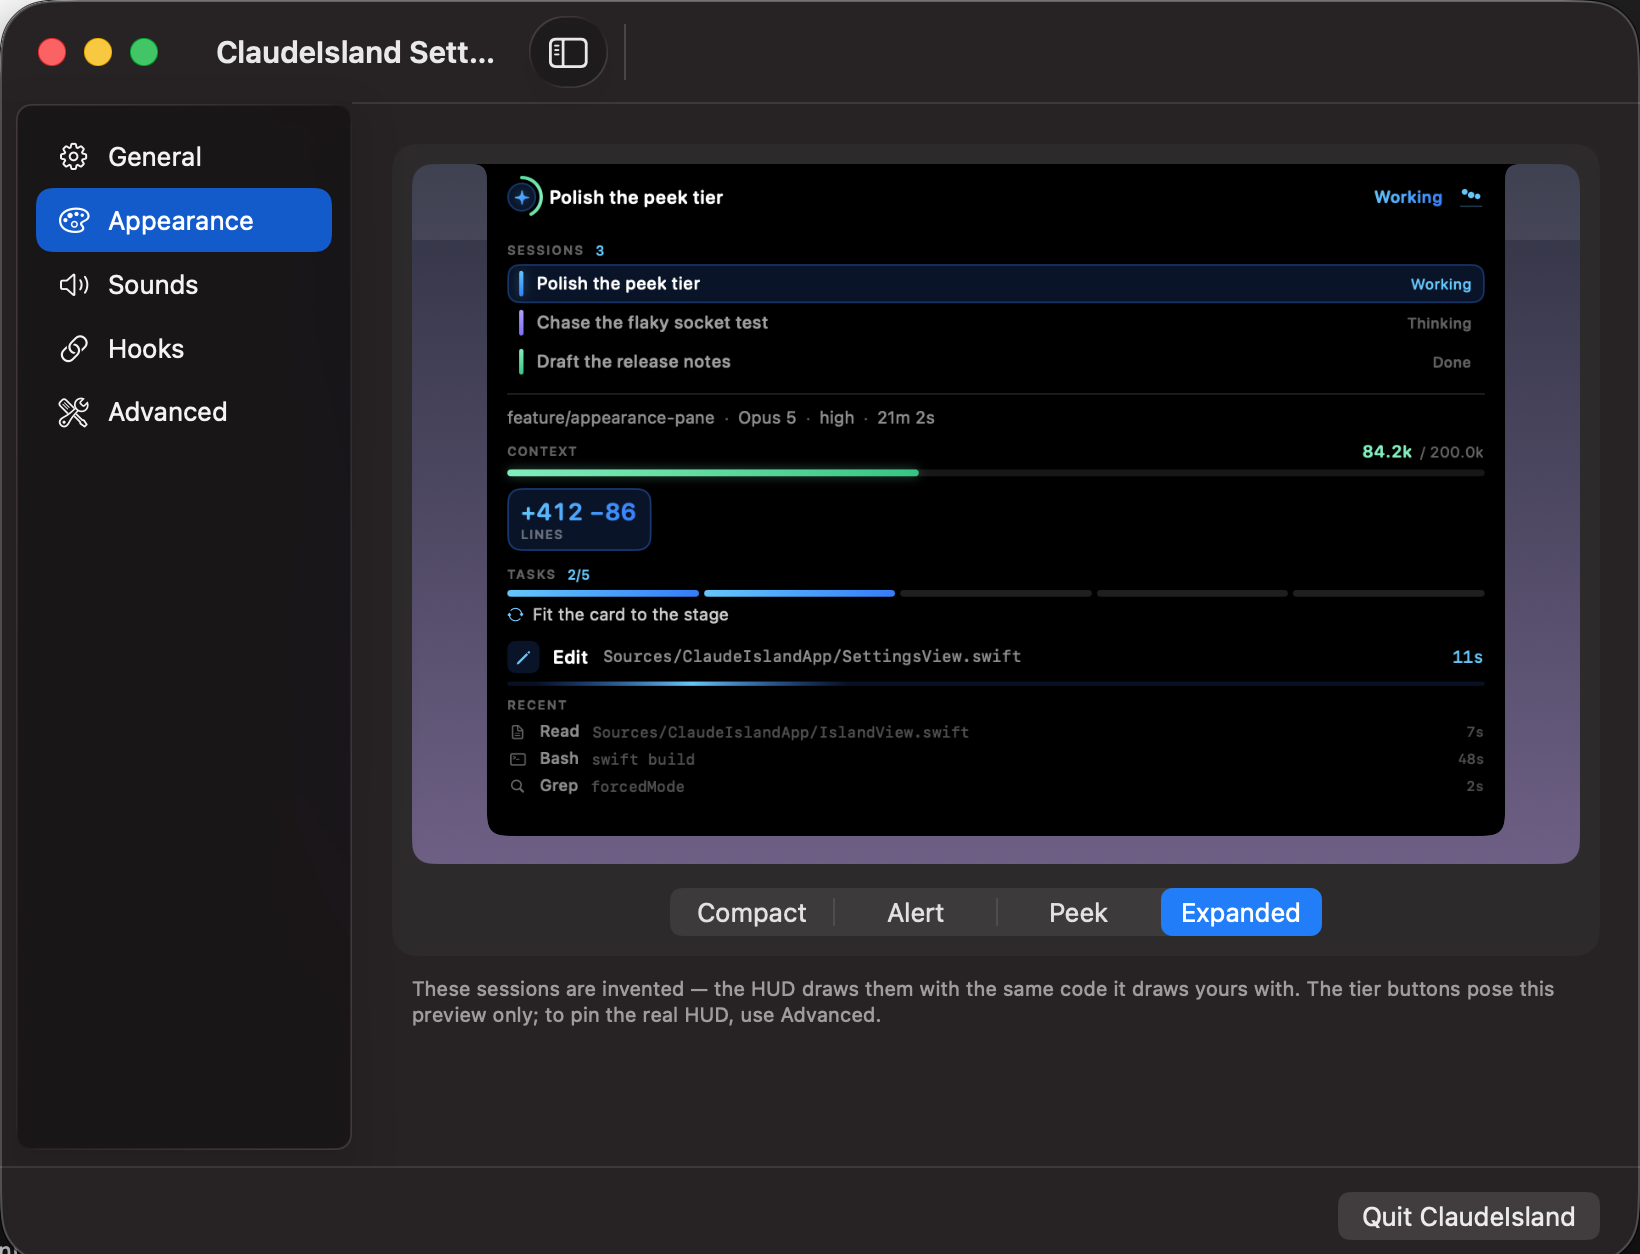
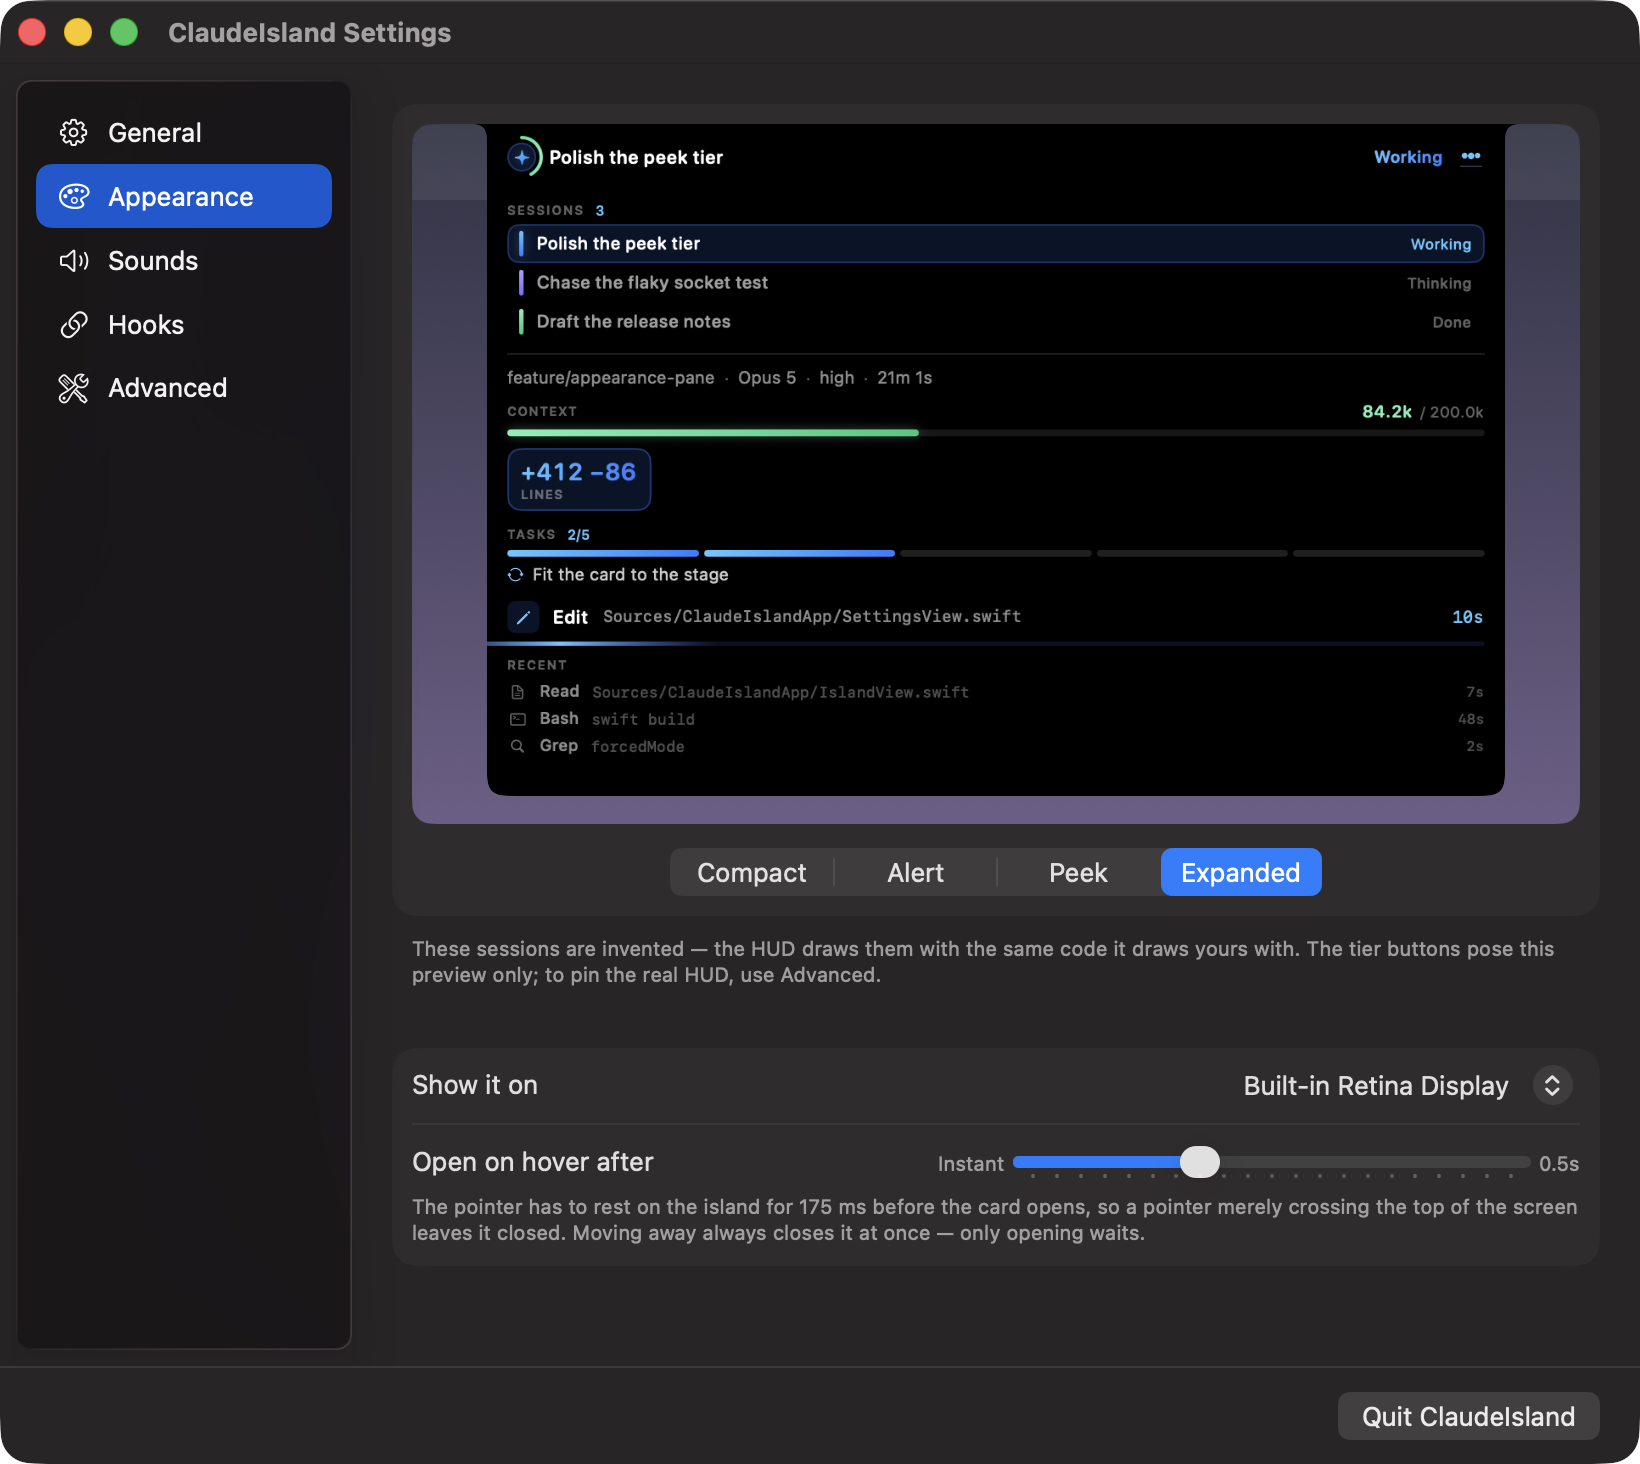
Give the settings window its title back, and Appearance its settings
Three complaints about the same window, two of which turn out to be one
bug. `NavigationSplitView` hangs a toolbar off the window whether or not
anything asks for one, and it costs twice: a sidebar toggle draws beside
the title offering to collapse a sidebar this window deliberately pins,
and the tracking separator that comes with it lays the title out inside
the sidebar's column — which is what cut "ClaudeIsland Settings" down to
"ClaudeIsland Sett…" in a window with three hundred points of empty
title bar to its right.

The window refuses the toolbar now, by overriding the property rather
than clearing it afterwards: SwiftUI sets it during layout, so anything
that nilled it after the fact would be racing whichever runloop turn
that lands on. SwiftUI cannot refuse it from its side —
`.toolbar(removing: .sidebarToggle)` and `.toolbar(.hidden, for:
.windowToolbar)` are both no-ops inside an `NSHostingView`; captures of
the window with and without them were identical to the byte. `--selftest`
asserts the override directly, by handing the window a toolbar and
reading it back nil, rather than by watching for SwiftUI's own — a check
that watched would pass vacuously the day SwiftUI stopped installing one.

Appearance was a pane that wrote no settings at all, so "Show it on" and
"Open on hover after" move onto it from General. Both are settings the
preview above them is already a picture of: it resolves the shape against
[…]

diff --git a/Sources/ClaudeIslandApp/SettingsView.swift b/Sources/ClaudeIslandApp/SettingsView.swift
@@ -39,9 +39,10 @@ struct SettingsView: View {
     /// than going blank.
     @State private var pane: Pane? = .general
 
-    /// Pinned open. This window has no toolbar, so the sidebar toggle that
-    /// normally brings a collapsed column back has nowhere to draw itself; a
-    /// sidebar the user can lose is one they cannot ask for again.
+    /// Pinned open, and the toggle that would unpin it is removed below — a
+    /// sidebar the user can lose is one they cannot ask for again. Five fixed
+    /// panes are the whole of this window's navigation; collapsing them leaves a
+    /// detail column with no way to say which pane it is showing.
     @State private var columns = NavigationSplitViewVisibility.all
 
     /// The displays attached right now, re-read whenever the window learns they
@@ -64,6 +65,14 @@ struct SettingsView: View {
                 detail
             }
             .navigationSplitViewStyle(.balanced)
+            // The toolbar this split view hangs off the window — a sidebar
+            // toggle for a sidebar that is pinned, and a tracking separator that
+            // truncated the window's title to fit the sidebar's column — is
+            // refused by the window itself. `.toolbar(removing:)` and
+            // `.toolbar(.hidden, for: .windowToolbar)` are both no-ops from
+            // inside an `NSHostingView`: photographed against a window with and
+            // without them, the two captures were identical to the byte. See
+            // `SettingsWindow`.
             .frame(maxHeight: .infinity)
             Divider()
             footer
@@ -148,8 +157,6 @@ struct SettingsView: View {
             Section {
                 LabeledContent("Status", value: statusLine)
                 Toggle("Show the HUD", isOn: $store.hudEnabled)
-                displayRow
-                hoverDelayRow
                 if LoginItem.isAvailable {
                     Toggle("Launch at login", isOn: launchAtLoginBinding)
                 }
@@ -166,14 +173,12 @@ struct SettingsView: View {
 
     /// Which display the island draws on.
     ///
-    /// On General, next to "Show the HUD", rather than on Appearance. Both were
-    /// defensible and this one is a judgement call, made on two grounds: this
-    /// setting answers *where the HUD is*, which is the same question as whether
-    /// it is showing at all — someone whose island has vanished onto the laptop
-    /// panel behind a closed lid goes looking in the pane that turns it on, not
-    /// in the one about how it looks. And Appearance is currently a pane that
-    /// writes no settings whatsoever: it is the preview and nothing else, which
-    /// is a property worth keeping.
+    /// On Appearance, directly under the preview, because the preview is this
+    /// row's own answer: it resolves the shape against whichever display is
+    /// chosen here, so a notched panel previews a notch and anything else
+    /// previews the pill. Picking a display on one pane to see what it did on
+    /// another was the arrangement this replaced, and it made the preview look
+    /// like decoration rather than the readout it is.
     ///
     /// The caption only appears when the chosen display is missing. A row that
     /// explained itself at all times would be four lines of prose above "Launch
@@ -211,11 +216,13 @@ struct SettingsView: View {
 
     /// How long the pointer must rest on the island before the card opens.
     ///
-    /// On General with the other two, because it answers the same question they
-    /// do — the island is showing, it is over there, and it takes this long to
-    /// notice you. It is also the row someone comes looking for after the HUD
-    /// popped open while they were reaching for the menu bar, which is not a
-    /// complaint about how it looks.
+    /// On Appearance under the display picker, because the tier it gates is the
+    /// one the preview above puts on screen: Peek is what this delay stands
+    /// between the pointer and, and the segment marked Peek is a click away
+    /// while the slider is being dragged. It is also the row someone comes
+    /// looking for after the card popped open while they were reaching for the
+    /// menu bar — a complaint about the island appearing when it should not,
+    /// which is the pane that shows the island appearing.
     ///
     /// A slider rather than a Short/Medium/Long picker: the range is narrow,
     /// every value in it is usable, and what is being chosen is a feel — judged
@@ -340,13 +347,18 @@ struct SettingsView: View {
     }
 
     /// Second in the sidebar rather than last: it is the one pane that answers a
-    /// question — "what is this thing going to look like on my screen" — instead
-    /// of asking one, and behind the hook plumbing it would only be found by
+    /// question — "what is this thing going to look like on my screen" — as well
+    /// as asking one, and behind the hook plumbing it would only be found by
     /// people who were already looking for it.
     ///
     /// The preview is fed made-up sessions and driven by a view model of its own;
     /// see `IslandPreviewSource` for why that second model is not an optimisation
-    /// but the whole safety property. Nothing on this pane writes a setting.
+    /// but the whole safety property.
+    ///
+    /// The two rows under it are the settings the preview is a picture of — which
+    /// display the island takes its shape from, and how long the pointer waits
+    /// for Peek. Both used to live on General, where changing one meant switching
+    /// panes to see what it had done.
     private var appearancePane: some View {
         Form {
             Section {
@@ -360,6 +372,10 @@ struct SettingsView: View {
                 .font(.caption)
                 .foregroundStyle(.secondary)
                 .fixedSize(horizontal: false, vertical: true)
+            }
+            Section {
+                displayRow
+                hoverDelayRow
             }
         }
         .formStyle(.grouped)

diff --git a/Sources/ClaudeIslandApp/SettingsWindowController.swift b/Sources/ClaudeIslandApp/SettingsWindowController.swift
@@ -1,6 +1,35 @@
 import AppKit
 import SwiftUI
 
+/// A window that will not carry a toolbar.
+///
+/// `NavigationSplitView` installs one whether or not anything asked for it, and
+/// this window wants neither half of what it brings. The sidebar toggle offers
+/// to collapse a sidebar that is deliberately pinned — five fixed panes, nothing
+/// to hide, and a detail column with no other way to say which pane it is
+/// showing. The tracking separator that comes with it then lays the window's
+/// title out inside the sidebar's column, so "ClaudeIsland Settings" arrived as
+/// "ClaudeIsland Sett…" in a window with three hundred points of empty title bar
+/// to its right.
+///
+/// Refused here rather than in SwiftUI because SwiftUI cannot refuse it from
+/// inside an `NSHostingView`: `.toolbar(removing: .sidebarToggle)` and
+/// `.toolbar(.hidden, for: .windowToolbar)` both left the button and the
+/// truncation exactly where they were — captures of the window with and without
+/// them were identical to the byte. Those modifiers speak to a SwiftUI-owned
+/// scene, and this window is AppKit's.
+///
+/// Overriding the property rather than nilling it after the fact: SwiftUI sets
+/// this during layout, so anything that cleared it afterwards would be racing
+/// whichever runloop turn that lands on. `--selftest` asserts on the override
+/// directly, by handing one over and reading it back.
+final class SettingsWindow: NSWindow {
+    override var toolbar: NSToolbar? {
+        get { nil }
+        set { _ = newValue }
+    }
+}
+
 /// The settings window, and the invisible main menu that makes it usable.
 ///
 /// The app runs `.accessory` (LSUIElement) and must keep doing so — the HUD
@@ -77,8 +106,15 @@ final class SettingsWindowController: NSObject, NSWindowDelegate {
         // already shrunk by a fifth. Still only a default: the window resizes,
         // the preview scales to whatever it is given, and `minWidth` is
         // unchanged, so nothing here is load-bearing.
-        let window = NSWindow(
-            contentRect: NSRect(x: 0, y: 0, width: 820, height: 580),
+        //
+        // The height went 580 → 700 when the display picker and the hover delay
+        // moved onto Appearance, under the preview. At 580 they opened below the
+        // fold — a pane whose settings you have to scroll to find, sitting under
+        // 350 points of preview that looks like the whole of it. 700 still
+        // clears the shortest display this is likely to meet: the built-in panel
+        // it is drawn for leaves 1130 points between the menu bar and the Dock.
+        let window = SettingsWindow(
+            contentRect: NSRect(x: 0, y: 0, width: 820, height: 700),
             // Still resizable: the panes scroll, and a fixed height would clip
             // whichever pane happens to be longest today on a short display.
             styleMask: [.titled, .closable, .miniaturizable, .resizable],
@@ -90,7 +126,7 @@ final class SettingsWindowController: NSObject, NSWindowDelegate {
         window.isReleasedWhenClosed = false
         window.delegate = self
         window.contentView = NSHostingView(rootView: makeContent())
-        window.setContentSize(NSSize(width: 820, height: 580))
+        window.setContentSize(NSSize(width: 820, height: 700))
         window.center()
         return window
     }

diff --git a/Sources/ClaudeIslandApp/SelfTest.swift b/Sources/ClaudeIslandApp/SelfTest.swift
@@ -761,6 +761,23 @@ enum SelfTest {
     /// window fails quietly — a toggle that moves on screen, does nothing, and
     /// forgets itself by the next launch looks exactly like one that works.
     private static func settingsChecks(_ checks: inout [Check]) {
+        // The window refuses the toolbar `NavigationSplitView` hangs off it —
+        // a sidebar toggle for a sidebar that is pinned, and a tracking
+        // separator that truncated the window's title to the sidebar's column.
+        // Asserted by handing one over rather than by waiting for SwiftUI to
+        // install its own: the contract is that this window never carries a
+        // toolbar whoever sets it, and a check that watched for SwiftUI's would
+        // pass vacuously on the day SwiftUI stopped installing one.
+        let window = SettingsWindow(
+            contentRect: NSRect(x: 0, y: 0, width: 820, height: 700),
+            styleMask: [.titled, .closable, .resizable], backing: .buffered, defer: true)
+        window.toolbar = NSToolbar(identifier: "selftest")
+        checks.append(
+            Check(
+                name: "the settings window refuses a toolbar",
+                passed: window.toolbar == nil,
+                detail: "toolbar=\(window.toolbar.map(\.identifier) ?? "nil")"))
+
         let root = URL(fileURLWithPath: NSTemporaryDirectory())
             .appendingPathComponent("island-selftest-\(UUID().uuidString)", isDirectory: true)
         defer { try? FileManager.default.removeItem(at: root) }

diff --git a/Sources/ClaudeIslandApp/IslandPreview.swift b/Sources/ClaudeIslandApp/IslandPreview.swift
@@ -298,11 +298,12 @@ struct IslandPreview: View {
         .onAppear { source.show(tier, on: store.preferredDisplay) }
         .onDisappear { source.shutdown() }
         .onChange(of: tier) { _, chosen in source.show(chosen, on: store.preferredDisplay) }
-        // The display picker is a pane away, on General, so this normally
-        // re-poses on the way back here — but the shape is the one thing on this
-        // stage that a *different pane* can change, and a preview showing a notch
-        // for a HUD that is now a pill on an external monitor is worse than no
-        // preview at all.
+        // The display picker sits directly under this stage, so this is what
+        // makes the pane a readout rather than a still: choosing a notchless
+        // display reshapes the island in place, without the pane being left or
+        // the tier being pressed again. It also still covers the picker being
+        // changed from anywhere else — a preview showing a notch for a HUD that
+        // is now a pill on an external monitor is worse than no preview at all.
         .onChange(of: store.preferredDisplay) { _, display in
             source.show(tier, on: display)
         }

diff --git a/README.md b/README.md
@@ -74,7 +74,7 @@ of the event pipeline — whether the socket is listening, how long ago the last
 hook event arrived, how many sessions are tracked — which is the first place to
 look if the island never appears at all.
 
-![The General pane: the event pipeline strip, Show the HUD, Show it on, Open on hover after, and Launch at login](docs/images/settings-general.png)
+![The General pane: the event pipeline strip, Status, Show the HUD, and Launch at login](docs/images/settings-general.png)
 
 ### Why it builds from source rather than shipping a binary
 
@@ -94,9 +94,9 @@ nothing on screen would say the app had started.
 The window is a sidebar with one pane per concern:
 
 ```
-General     Status · Show the HUD · Show it on … · Open on hover after …
-            · Launch at login
+General     Status · Show the HUD · Launch at login
 Appearance  A live preview of the island, posed at each tier
+            · Show it on … · Open on hover after …
 Sounds      Play sounds · Stay quiet while a terminal is frontmost · a sound per cue
 Hooks       Install / update / remove, Copy Hook JSON
 Advanced    Debug log · Pin the HUD to · Reveal Support Folder
@@ -104,10 +104,12 @@ Advanced    Debug log · Pin the HUD to · Reveal Support Folder
 
 **Appearance** poses the real island — the same shape, content views and view
 model the HUD draws with — over invented sessions, at whichever tier you press.
-It resolves the shape against the display chosen on General, so it previews the
-one the HUD will actually take.
+The two settings under it are the ones the preview is a picture of: it resolves
+the shape against the display chosen there, so a notched panel previews a notch
+and anything else previews the pill, and the Peek tier is what the hover delay
+stands between the pointer and.
 
-![The Appearance pane showing the expanded card posed over invented sessions, with tier buttons for Compact, Alert, Peek and Expanded](docs/images/settings-appearance.png)
+![The Appearance pane showing the expanded card posed over invented sessions, with tier buttons for Compact, Alert, Peek and Expanded, and the Show it on and Open on hover after rows below](docs/images/settings-appearance.png)
 
 **Show it on** picks the display. The default follows the menu bar, which on a
 notched Mac is where the cutout is; any other display gets the pill instead —
@@ -442,7 +444,7 @@ SwiftUI, for the reason above.
 The name is cut on a word at 18 characters and carries no ellipsis — the pill is
 a label, not a claim to be complete, and the whole title is one hover away.
 
-**Peek** (hover, after the dwell set on General) — adds the live tool target,
+**Peek** (hover, after the dwell set on Appearance) — adds the live tool target,
 the identity line (branch, model, effort, elapsed), context and output tokens,
 lines changed, and plan progress with the task currently in flight.
 
